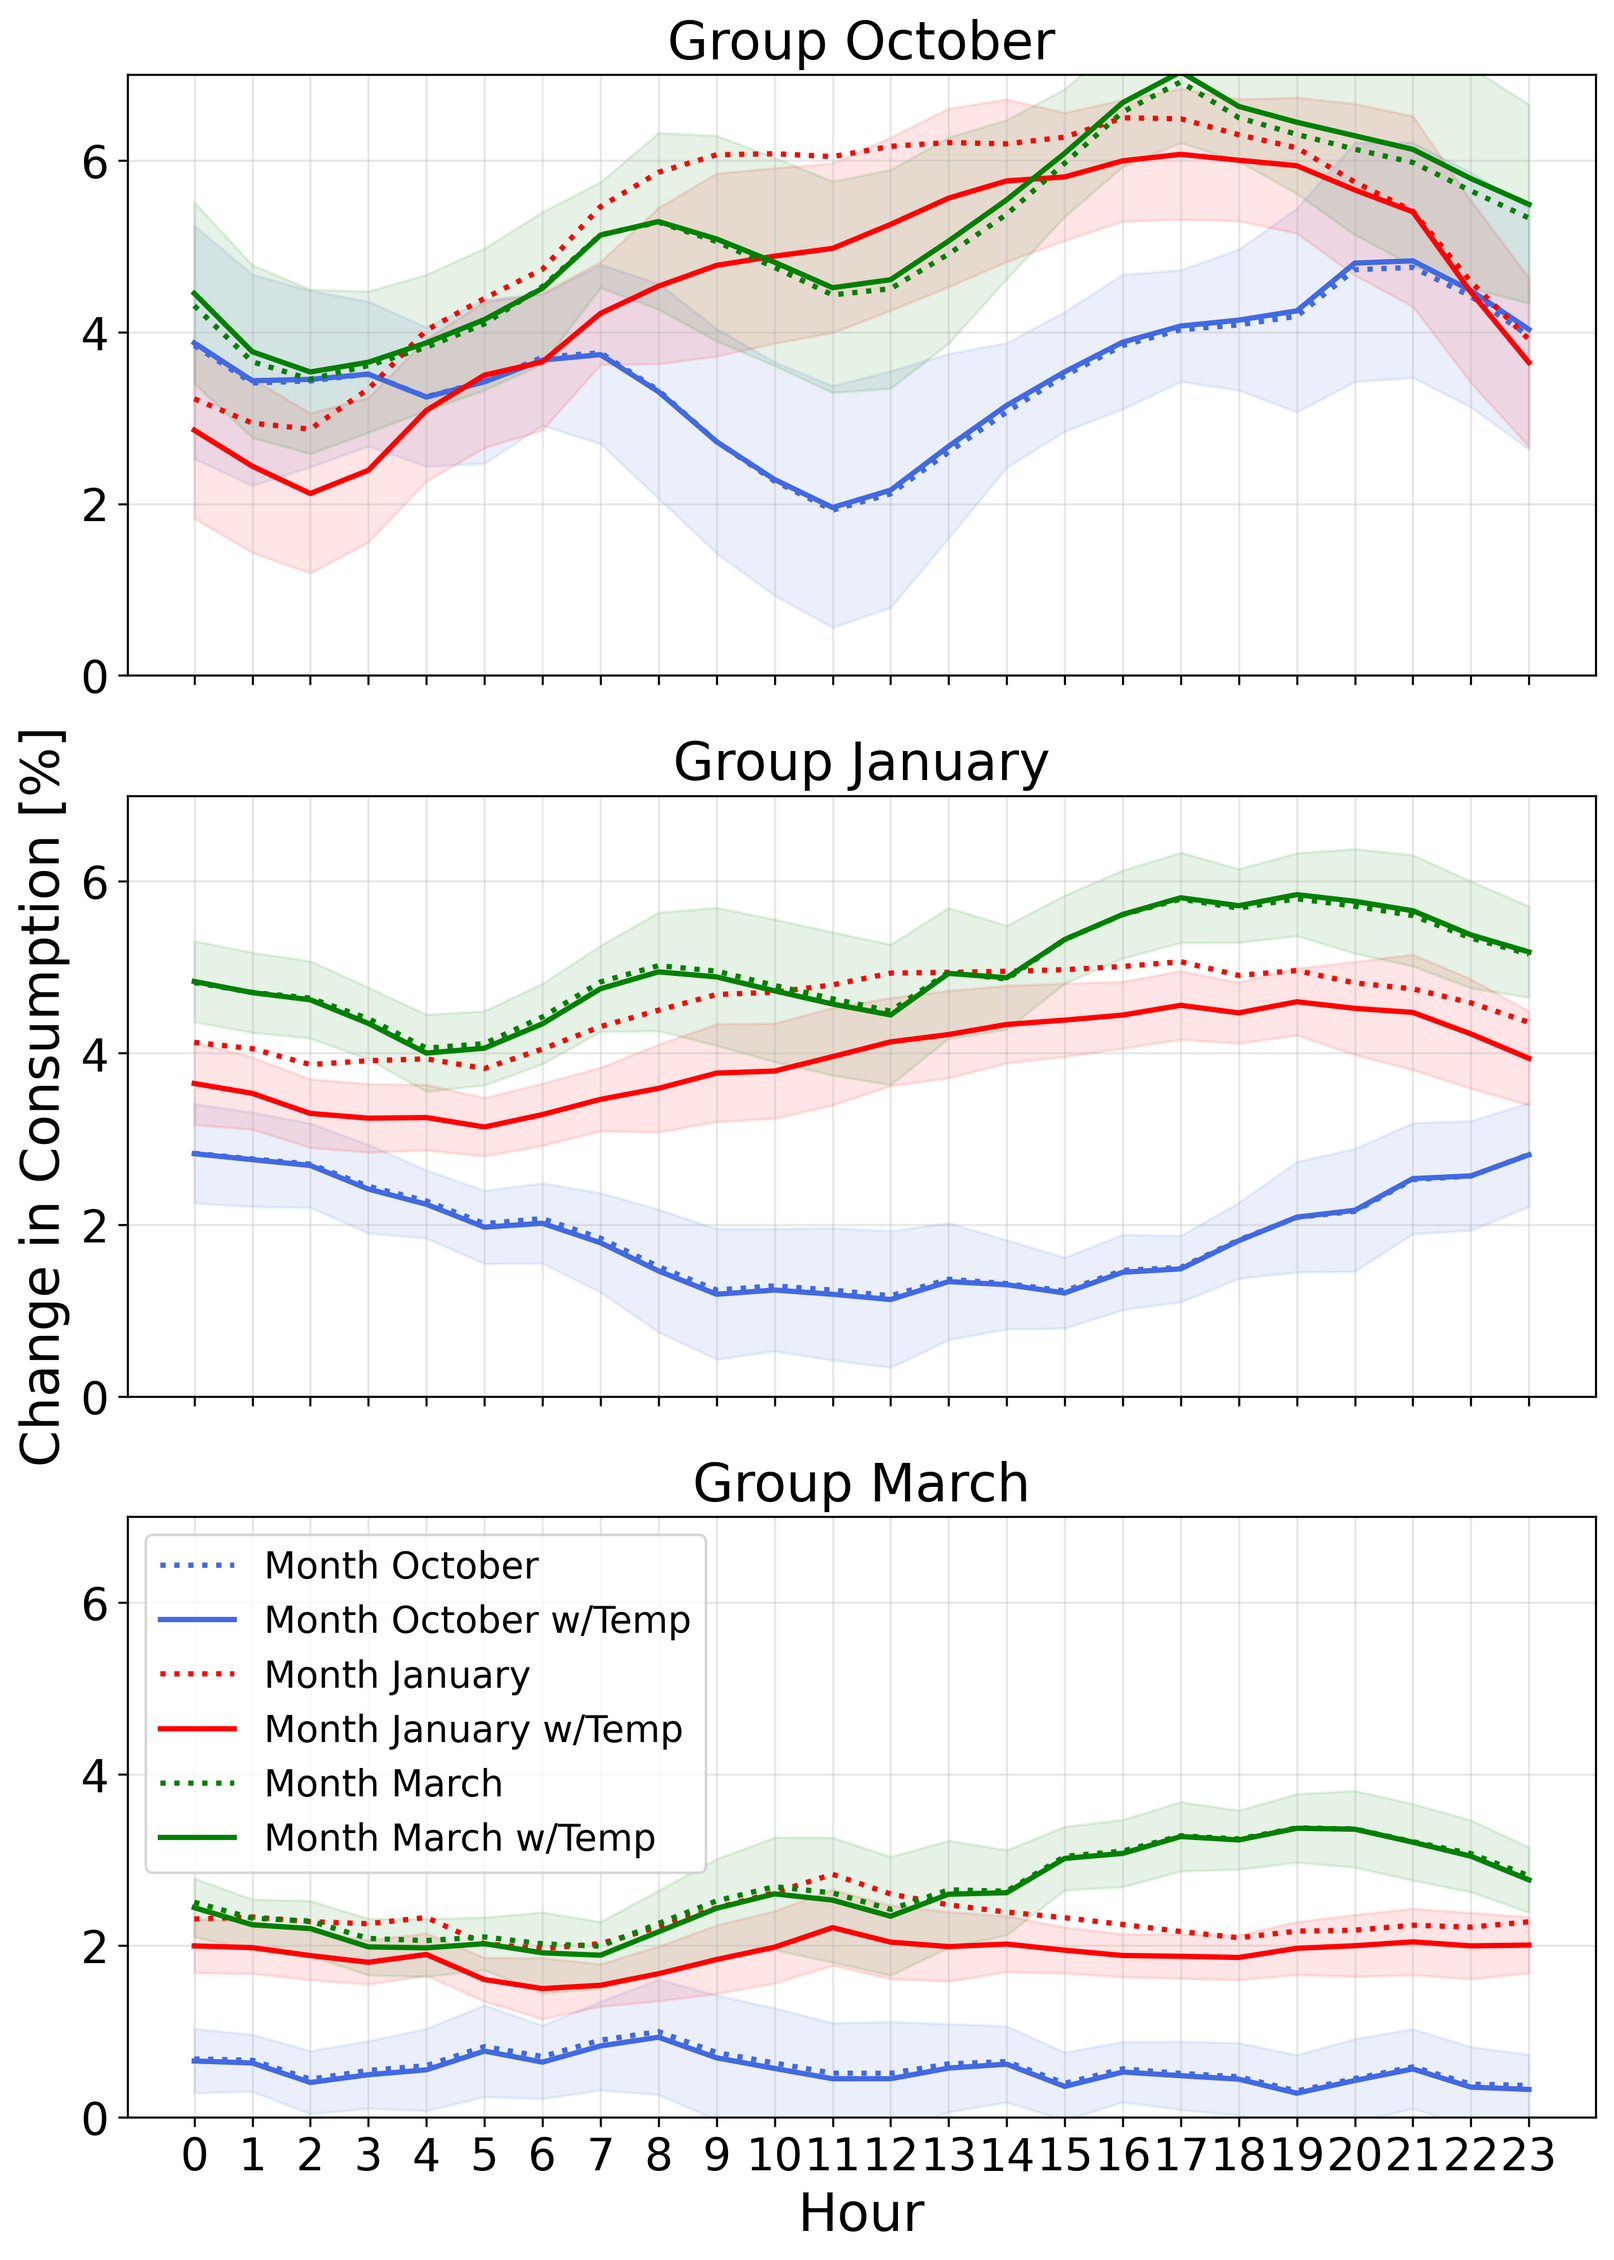
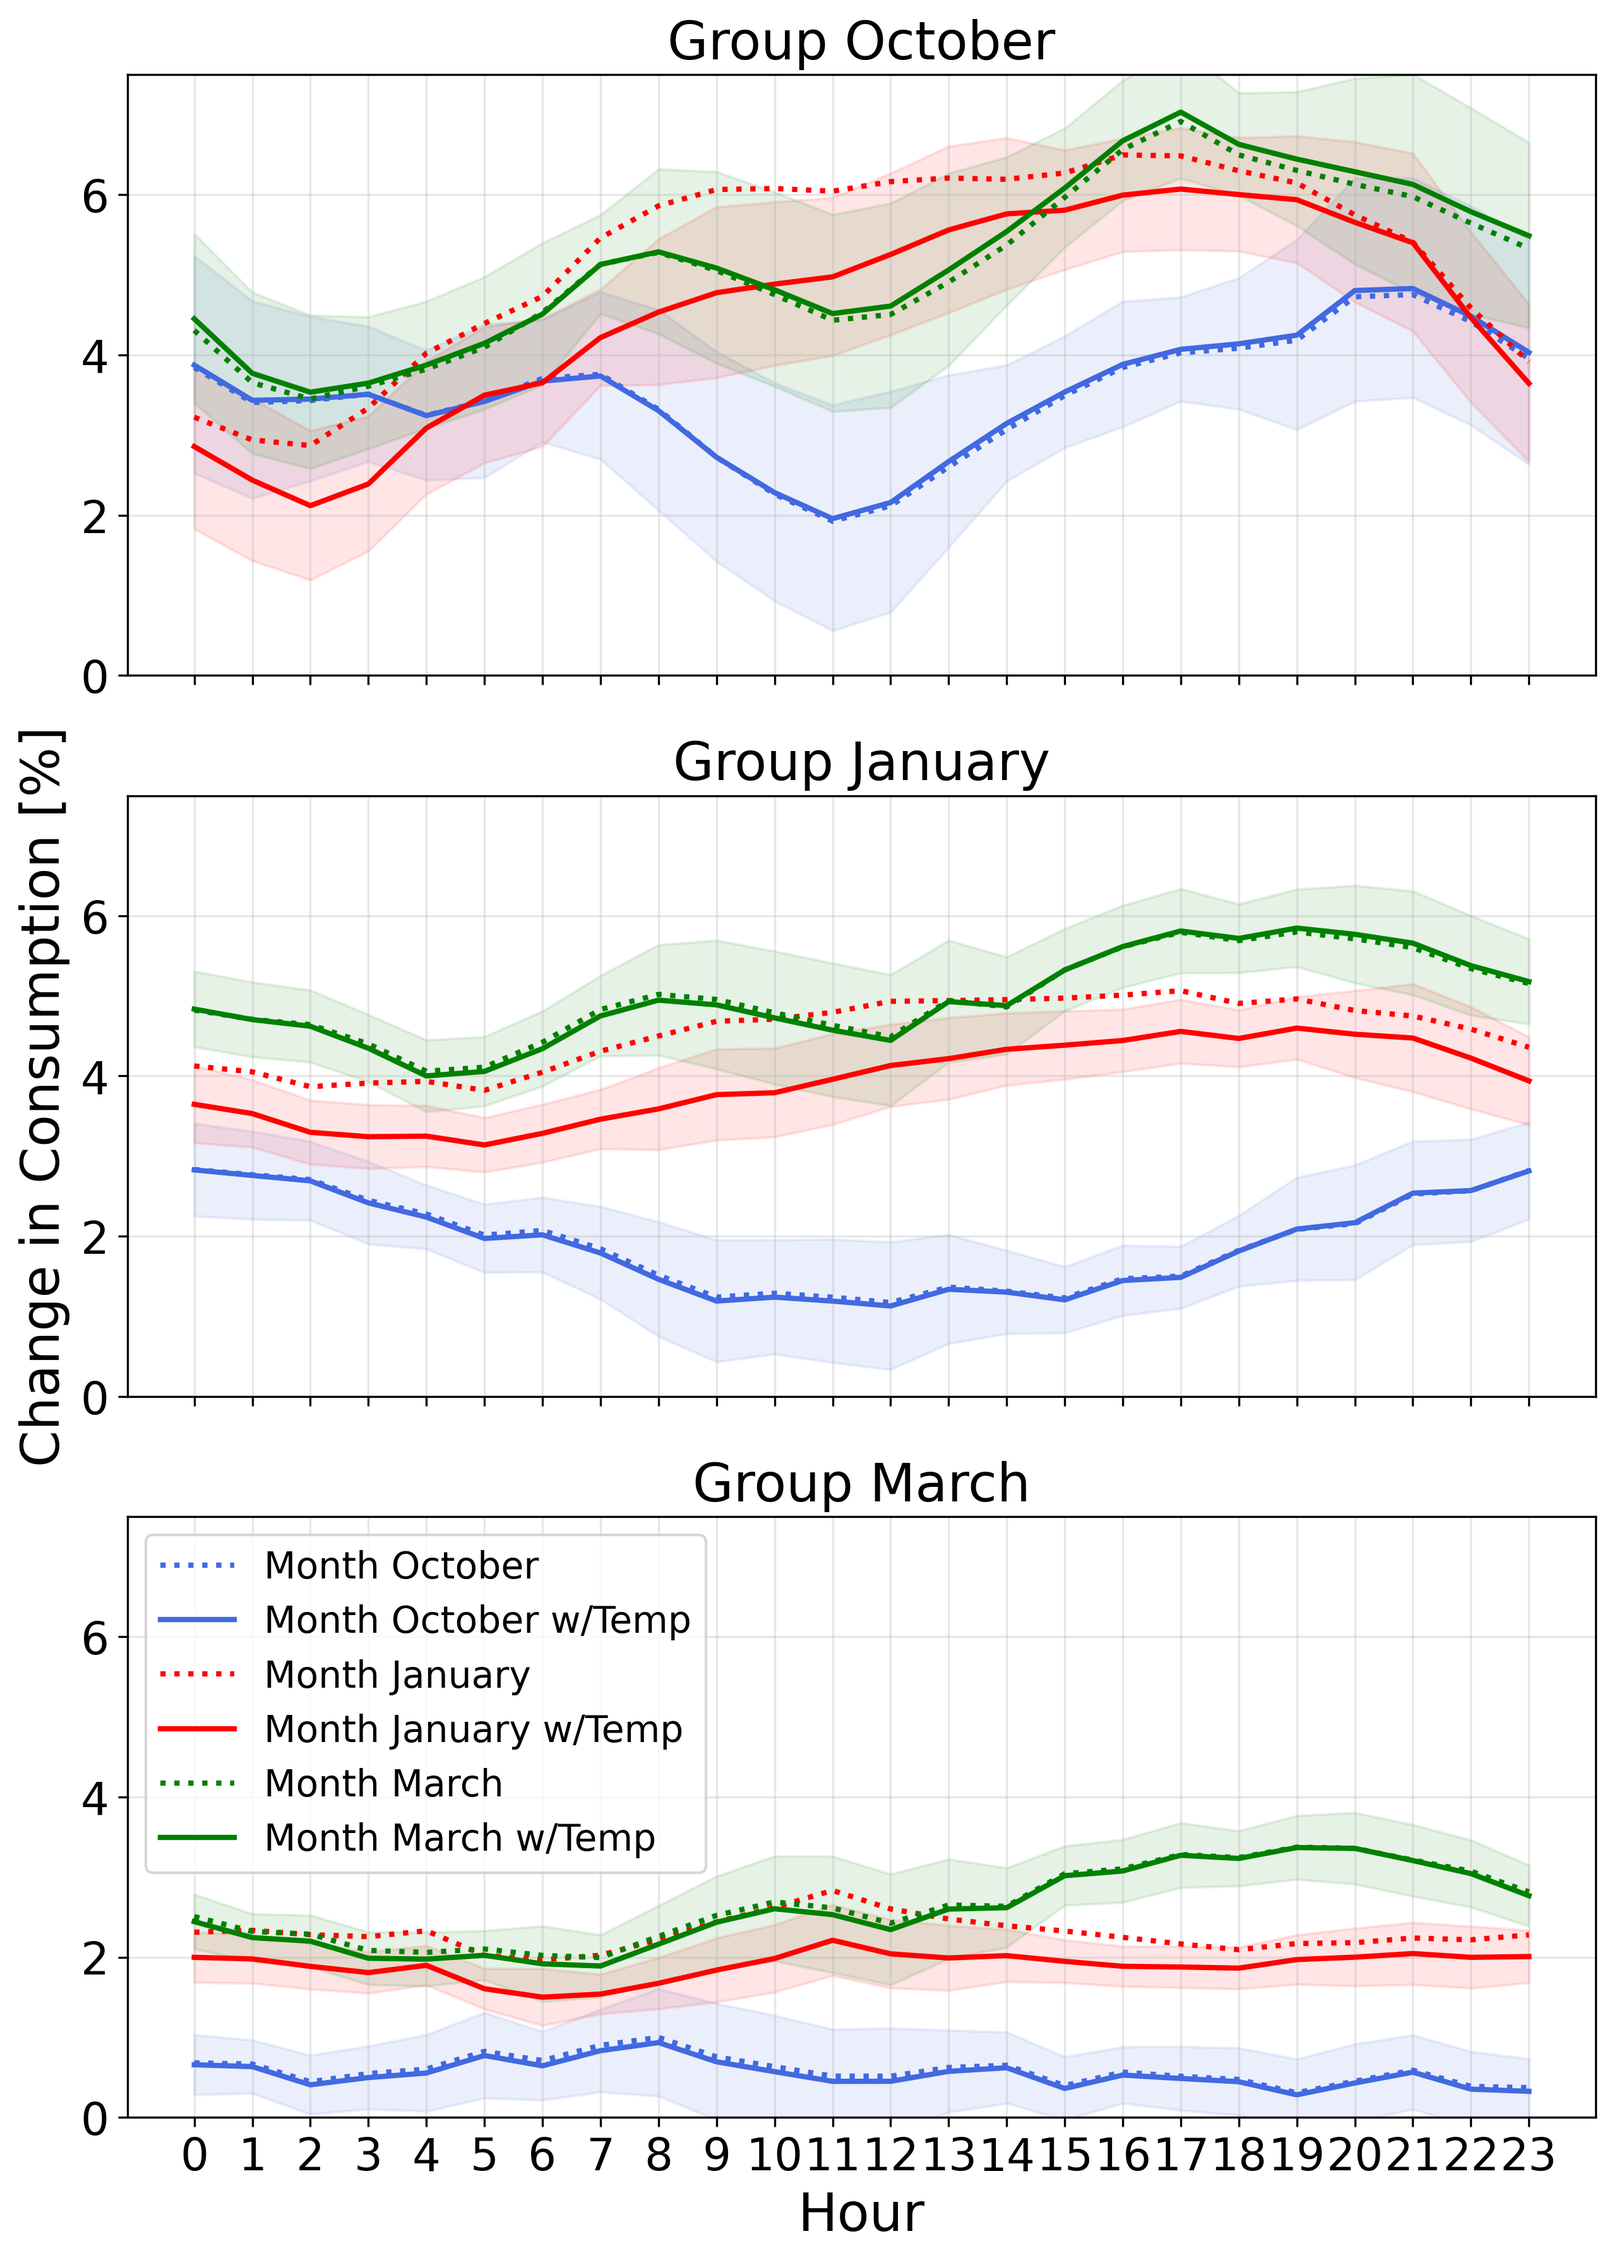
Endringer

diff --git a/DiD_flex_caseStudy.py b/DiD_flex_caseStudy.py
@@ -403,47 +403,47 @@ end_date_after_mars = '2026-03-31'
 
 # ------------- Oktober ------------- #
 
-data_NO1_mNP = pd.concat( [data_NO5_NPoct], ignore_index=True)
-data_NO1_mNP_1 = pd.concat([data_NO5_NPoct], ignore_index=True)
-data_NO1_mNP_2 = pd.concat( [data_NO5_NPoct], ignore_index=True)
+data_NO1_mNP = pd.concat( [data_NO2_NPoct], ignore_index=True)
+data_NO1_mNP_1 = pd.concat([data_NO2_NPoct], ignore_index=True)
+data_NO1_mNP_2 = pd.concat( [data_NO2_NPoct], ignore_index=True)
 
-data_NO1_rest = pd.concat([data_NO5_NPnov,data_NO5_NPdec,data_NO5_NPjan,data_NO5_NPfeb,data_NO5_NPmars,data_NO5_NPapril], ignore_index=True)
-data_NO1_rest_1 = pd.concat([data_NO5_NPfeb, data_NO5_NPmars,data_NO5_NPapril] , ignore_index=True)
-data_NO1_rest_2 = pd.concat([data_NO5_NPapril], ignore_index=True)
+data_NO1_rest = pd.concat([data_NO2_NPnov,data_NO2_NPdec,data_NO2_NPjan,data_NO2_NPfeb,data_NO2_NPmars,data_NO2_NPapril], ignore_index=True)
+data_NO1_rest_1 = pd.concat([data_NO2_NPfeb, data_NO2_NPmars,data_NO2_NPapril] , ignore_index=True)
+data_NO1_rest_2 = pd.concat([data_NO2_NPapril], ignore_index=True)
 
 # ------------- Januar ------------- #
 
-data_NO1_mNP_3 = pd.concat( [data_NO5_NPjan], ignore_index=True)
-data_NO1_mNP_4 = pd.concat([data_NO5_NPjan], ignore_index=True)
-data_NO1_mNP_5 = pd.concat( [data_NO5_NPjan], ignore_index=True)
+data_NO1_mNP_3 = pd.concat( [data_NO2_NPjan], ignore_index=True)
+data_NO1_mNP_4 = pd.concat([data_NO2_NPjan], ignore_index=True)
+data_NO1_mNP_5 = pd.concat( [data_NO2_NPjan], ignore_index=True)
 
-data_NO1_rest_3 = pd.concat([data_NO5_NPnov,data_NO5_NPdec,data_NO5_NPfeb,data_NO5_NPmars,data_NO5_NPapril], ignore_index=True)
-data_NO1_rest_4 = pd.concat([data_NO5_NPfeb, data_NO5_NPmars,data_NO5_NPapril] , ignore_index=True)
-data_NO1_rest_5 = pd.concat([data_NO5_NPapril], ignore_index=True)
+data_NO1_rest_3 = pd.concat([data_NO2_NPnov,data_NO2_NPdec,data_NO2_NPfeb,data_NO2_NPmars,data_NO2_NPapril], ignore_index=True)
+data_NO1_rest_4 = pd.concat([data_NO2_NPfeb, data_NO2_NPmars,data_NO2_NPapril] , ignore_index=True)
+data_NO1_rest_5 = pd.concat([data_NO2_NPapril], ignore_index=True)
 
 # ------------- Mars ------------- #
 
-data_NO1_mNP_6 = pd.concat( [data_NO5_NPmars], ignore_index=True)
-data_NO1_mNP_7 = pd.concat([data_NO5_NPmars], ignore_index=True)
-data_NO1_mNP_8 = pd.concat( [data_NO5_NPmars], ignore_index=True)
+data_NO1_mNP_6 = pd.concat( [data_NO2_NPmars], ignore_index=True)
+data_NO1_mNP_7 = pd.concat([data_NO2_NPmars], ignore_index=True)
+data_NO1_mNP_8 = pd.concat( [data_NO2_NPmars], ignore_index=True)
 
-data_NO1_rest_6 = pd.concat([data_NO5_NPnov,data_NO5_NPdec,data_NO5_NPjan,data_NO5_NPfeb,data_NO5_NPapril], ignore_index=True)
-data_NO1_rest_7 = pd.concat([data_NO5_NPfeb, data_NO5_NPapril] , ignore_index=True)
-data_NO1_rest_8 = pd.concat([data_NO5_NPapril], ignore_index=True)
+data_NO1_rest_6 = pd.concat([data_NO2_NPnov,data_NO2_NPdec,data_NO2_NPjan,data_NO2_NPfeb,data_NO2_NPapril], ignore_index=True)
+data_NO1_rest_7 = pd.concat([data_NO2_NPfeb, data_NO2_NPapril] , ignore_index=True)
+data_NO1_rest_8 = pd.concat([data_NO2_NPapril], ignore_index=True)
 
 # ------------------------------------ STOPP AV ENDRING HER, DONT TOUCH ------------------------------------ #
 
-results_NO1_okt, results_NO1_temp_okt = Difference_in_Difference_Flex(data_NO1_mNP, data_NO5_uNP, data_NO1_rest, Temp_Bergen, 'NO5', start_date_before_okt, end_date_before_okt, start_date_after_okt, end_date_after_okt)
-results_NO1_jan, results_NO1_temp_jan = Difference_in_Difference_Flex(data_NO1_mNP_1, data_NO5_uNP, data_NO1_rest_1, Temp_Bergen, 'NO5', start_date_before_jan, end_date_before_jan, start_date_after_jan, end_date_after_jan)
-results_NO1_mars, results_NO1_temp_mars = Difference_in_Difference_Flex(data_NO1_mNP_2, data_NO5_uNP, data_NO1_rest_2, Temp_Bergen, 'NO5', start_date_before_mars, end_date_before_mars, start_date_after_mars, end_date_after_mars)
+results_NO1_okt, results_NO1_temp_okt = Difference_in_Difference_Flex(data_NO1_mNP, data_NO2_uNP, data_NO1_rest, Temp_Stavanger, 'NO2', start_date_before_okt, end_date_before_okt, start_date_after_okt, end_date_after_okt)
+results_NO1_jan, results_NO1_temp_jan = Difference_in_Difference_Flex(data_NO1_mNP_1, data_NO2_uNP, data_NO1_rest_1, Temp_Stavanger, 'NO2', start_date_before_jan, end_date_before_jan, start_date_after_jan, end_date_after_jan)
+results_NO1_mars, results_NO1_temp_mars = Difference_in_Difference_Flex(data_NO1_mNP_2, data_NO2_uNP, data_NO1_rest_2, Temp_Stavanger, 'NO2', start_date_before_mars, end_date_before_mars, start_date_after_mars, end_date_after_mars)
 
-results_NO1_okt_1, results_NO1_temp_okt_1 = Difference_in_Difference_Flex(data_NO1_mNP_3, data_NO5_uNP, data_NO1_rest_3, Temp_Bergen, 'NO5', start_date_before_okt, end_date_before_okt, start_date_after_okt, end_date_after_okt)
-results_NO1_jan_1, results_NO1_temp_jan_1 = Difference_in_Difference_Flex(data_NO1_mNP_4, data_NO5_uNP, data_NO1_rest_4, Temp_Bergen, 'NO5', start_date_before_jan, end_date_before_jan, start_date_after_jan, end_date_after_jan)
-results_NO1_mars_1, results_NO1_temp_mars_1 = Difference_in_Difference_Flex(data_NO1_mNP_5, data_NO5_uNP, data_NO1_rest_5, Temp_Bergen, 'NO5', start_date_before_mars, end_date_before_mars, start_date_after_mars, end_date_after_mars)
+results_NO1_okt_1, results_NO1_temp_okt_1 = Difference_in_Difference_Flex(data_NO1_mNP_3, data_NO2_uNP, data_NO1_rest_3, Temp_Stavanger, 'NO2', start_date_before_okt, end_date_before_okt, start_date_after_okt, end_date_after_okt)
+results_NO1_jan_1, results_NO1_temp_jan_1 = Difference_in_Difference_Flex(data_NO1_mNP_4, data_NO2_uNP, data_NO1_rest_4, Temp_Stavanger, 'NO2', start_date_before_jan, end_date_before_jan, start_date_after_jan, end_date_after_jan)
+results_NO1_mars_1, results_NO1_temp_mars_1 = Difference_in_Difference_Flex(data_NO1_mNP_5, data_NO2_uNP, data_NO1_rest_5, Temp_Stavanger, 'NO2', start_date_before_mars, end_date_before_mars, start_date_after_mars, end_date_after_mars)
 
-results_NO1_okt_2, results_NO1_temp_okt_2 = Difference_in_Difference_Flex(data_NO1_mNP_6, data_NO5_uNP, data_NO1_rest_6, Temp_Bergen, 'NO5', start_date_before_okt, end_date_before_okt, start_date_after_okt, end_date_after_okt)
-results_NO1_jan_2, results_NO1_temp_jan_2 = Difference_in_Difference_Flex(data_NO1_mNP_7, data_NO5_uNP, data_NO1_rest_7, Temp_Bergen, 'NO5', start_date_before_jan, end_date_before_jan, start_date_after_jan, end_date_after_jan)
-results_NO1_mars_2, results_NO1_temp_mars_2 = Difference_in_Difference_Flex(data_NO1_mNP_8, data_NO5_uNP, data_NO1_rest_8, Temp_Bergen, 'NO5', start_date_before_mars, end_date_before_mars, start_date_after_mars, end_date_after_mars)
+results_NO1_okt_2, results_NO1_temp_okt_2 = Difference_in_Difference_Flex(data_NO1_mNP_6, data_NO2_uNP, data_NO1_rest_6, Temp_Stavanger, 'NO2', start_date_before_okt, end_date_before_okt, start_date_after_okt, end_date_after_okt)
+results_NO1_jan_2, results_NO1_temp_jan_2 = Difference_in_Difference_Flex(data_NO1_mNP_7, data_NO2_uNP, data_NO1_rest_7, Temp_Stavanger, 'NO2', start_date_before_jan, end_date_before_jan, start_date_after_jan, end_date_after_jan)
+results_NO1_mars_2, results_NO1_temp_mars_2 = Difference_in_Difference_Flex(data_NO1_mNP_8, data_NO2_uNP, data_NO1_rest_8, Temp_Stavanger, 'NO2', start_date_before_mars, end_date_before_mars, start_date_after_mars, end_date_after_mars)
 
 
 # ------------------------------------ ENDRE HER IGJEN ------------------------------------ #
@@ -579,7 +579,7 @@ plot_dognprofil_flex_subplot(axes[0], [
 
 axes[0].set_title("Group October", fontsize = 20)
 axes[0].tick_params(labelsize = 17)
-axes[0].set_ylim(0,7)
+axes[0].set_ylim(0,7.5)
 
 # Andre rad
 plot_dognprofil_flex_subplot(axes[1], [
@@ -591,7 +591,7 @@ plot_dognprofil_flex_subplot(axes[1], [
 axes[1].set_title("Group January", fontsize = 20)
 axes[1].set_ylabel("Change in Consumption [%]", fontsize = 20)
 axes[1].tick_params(labelsize = 17)
-axes[1].set_ylim(0,7)
+axes[1].set_ylim(0,7.5)
 
 # Tredje rad
 plot_dognprofil_flex_subplot(axes[2], [
@@ -603,13 +603,13 @@ plot_dognprofil_flex_subplot(axes[2], [
 axes[2].set_title("Group March", fontsize = 20)
 axes[2].set_xlabel("Hour", fontsize = 20)
 axes[2].tick_params(labelsize = 17)
-axes[2].set_ylim(0,7)
+axes[2].set_ylim(0,7.5)
 axes[2].legend(loc = 'upper left', fontsize = 14)
 
 # Legend
 handles, labels = axes[0].get_legend_handles_labels()
 #fig.legend(handles, labels, loc='lower center', ncol=3)
-fig.savefig("plot_casestudyNO5.png", dpi=300, bbox_inches = "tight")
+fig.savefig("plot_casestudyNO2.png", dpi=300, bbox_inches = "tight")
 
 plt.tight_layout()
 plt.show()
